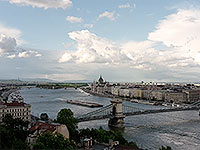
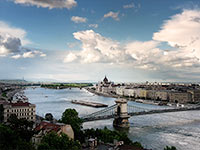
Draft post

diff --git a/_posts/2016-05-15-jsconfbp-2.md b/_posts/2016-05-15-jsconfbp-2.md
@@ -1,0 +1,56 @@
+---
+layout:        blogpost
+title:         JavaScript city tour (2/2)
+subtitle:      Second day of the JSConf Budapest, May 2016
+date:          2016-05-15
+tags:          [conference, javascript]
+redirect_from: /lxrmc/
+permalink:     lxrmc/jsconf-budapest-2016-part2
+image:         /assets/2016/budapest-skyline.jpg
+---
+
+These are my notes on the second day of the [JSConf in Budapest](http://jsconfbp.com/)[^1], which  took place at May 12th and 13th in the Akvarium Klub in the heart of city.
+
+By the way: I took the image above at Friday afternoon after the conference. If you like it, you can [download it in full resolution](/assets/2016/budapest-skyline-full.jpg). It’s public domain!
+
+## “Building an Offline Page for theguardian.com”
+
+Oliver Joseph Ash pointed out how important it is to provide a good offline experience for a website. It can not be taken as prerequisite, that everyone has a Wifi connection – and even if so, it may be poor and slow. For the website of newspaper The Guardian he uses Service Workers to hook into requests and cache results. It is not the goal to achieve a perfect clone of the online version of the webpage, it is a good start to offer an offline version *at all*.
+
+## High Performance in the Critical Rendering Path
+
+Performance is not a mere nice-to-have – we already learned this lessons yesterday. Nicolás Bevacqua encouraged us to measure web performance fast and often and provided to us the following suitable techniques:
+
+- Minify, compress and concatenate assets
+- Make use of the `Expire` header (you can achieve long TTLs by tokenizing the assets)
+- Deliver the things above the fold fast, and the things below the fold async
+- Render most of the things server-side and cache the results, whereever possible
+
+## Offensive and Defensive Strategie for Client-Side JavaScript
+
+Anand Vemuri showed how the security of web applications and public services can be improved:
+
+- CSRF tokens ensure, that requests come from “official” clients. However, they are not that trivial as they look like, so they have to be implemented thoroughly.
+- The `Accept-origin` request headers also counteract CSRF attacks
+- It’s a good advice to use GET requests for read requests only. Offering a … can be a security hole
+
+## Science in the Browser: Orchestrating and Visualising Neural Networks
+
+Interesting project by Rob Kerr, who is neuro-biologist and uses web technologies in his dissertation. Since data visualisation and manipulation is cheap and easy, JavaScript and CSS play a more and more important role in science.
+
+## Down the Rabbit Hole: JS in Wonderland
+
+Fun talk by Claudia Hernández, who demonstrated the traps of the JavaScript language design. Here are some of them:
+
+- `NaN === NaN` results `false`, since there are tons of different `NaN` existing. The `isNaN()` function comes to the rescue.
+- There is a way of writing JavaScript without using any alphanumeric characters. This is not only unreadable, but it can be also used for security exploits.
+- …
+
+## Works On My Machine; or: the Problem is between Keyboard and Chair
+
+Outstanding keynote by Lena Reinhardt, although (or because) the word JavaScript wasn’t mentioned a single time. It cannot be overseen, that we have a diversity problem in the tech industry: Most of the people, which work as software engineers, are white, able, cis and priviledged men. They earn good money and have enough spare time to work on side project or attend conferences for instances. However, this doesn’t mirror the average of the population, since all other groups are underrepresented.
+
+Lena Reinhardt looked for a good way to deal with this situation: But there is no masterplan to follow and no adjusting screw to turn. Although most of us are not “hit” by the lack of diversity (since most of us are white, priviledged males), we all have to face up to this problem and to do our bit to bring this topic into the collective consciousness.
+
+
+[^1]: Disclaimer: This summary is far away from complete and reflect a highly opinionated perception.
